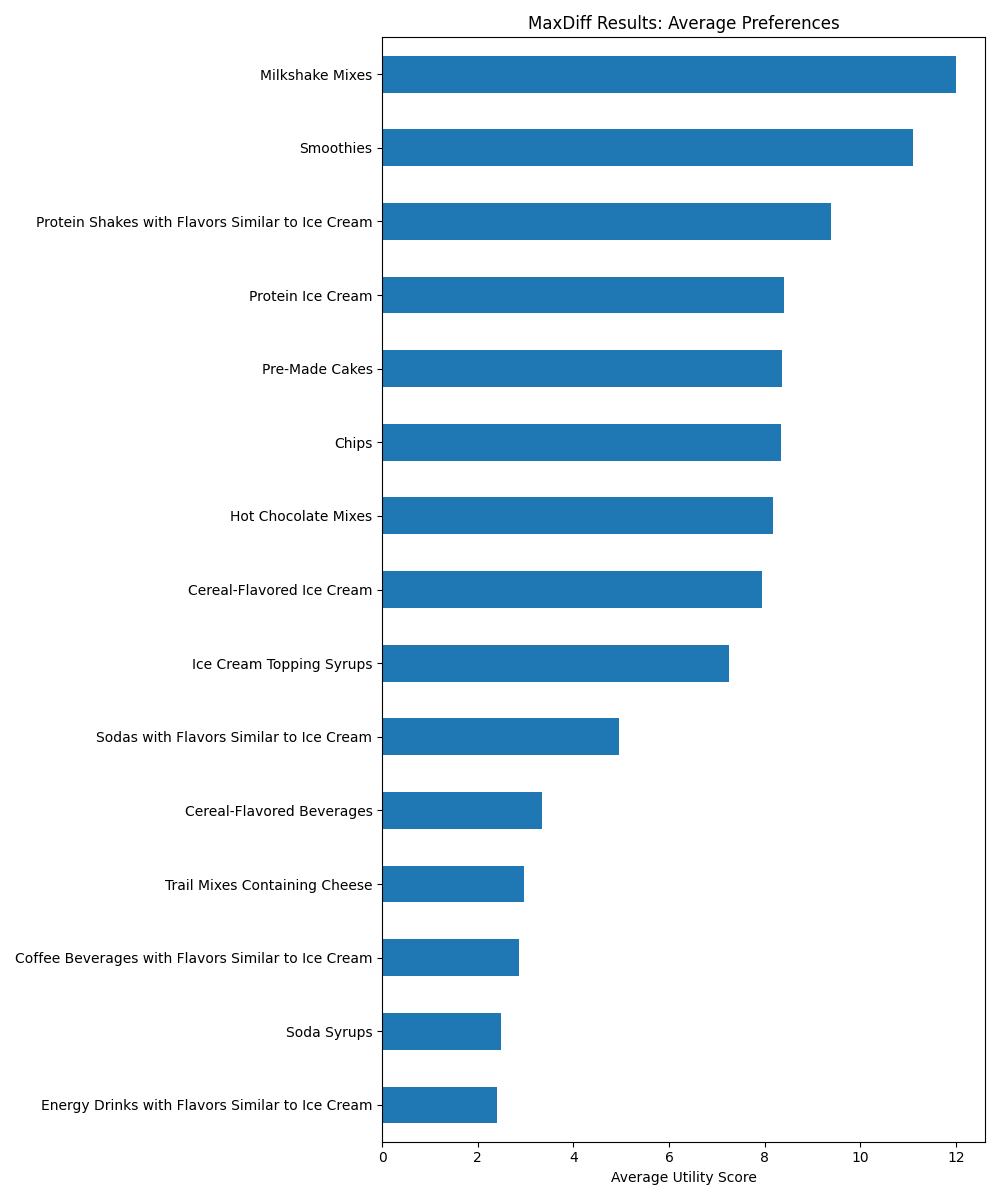
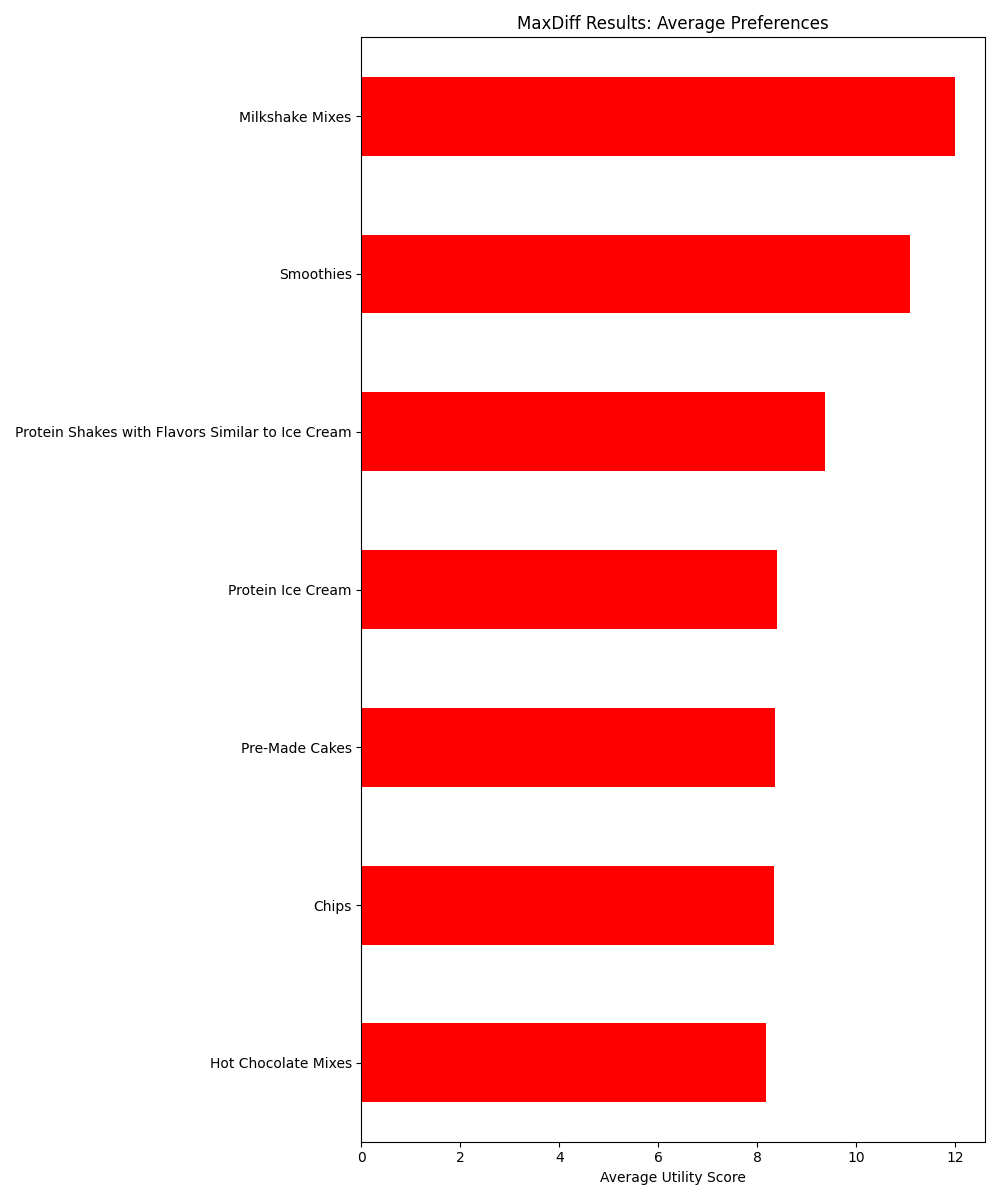
Finished the project

diff --git a/code.py b/code.py
@@ -15,21 +15,41 @@ maxdif = MaxDif.drop(columns=[
     'MaxDiff1_Fit (RLH)',
     'Model fit relative quality'
 ])
-#calculates the mean
-mean = maxdif.mean().sort_values(ascending=True)
-print("Means calculated")
-#Defines the size of the figure
-plt.figure(figsize=(10,12))
-#Tell what type of graph
-mean.plot(kind="barh")
+def bar_graph (color_option, row_count):
+    #calculates the mean
+    mean = maxdif.mean().sort_values(ascending=True)
+    #defining the rows
+    mean = mean.tail(row_count)
+    plt.figure(figsize=(10,12))
+    #Tell what type of graph
+    mean.plot(kind="barh", color = color_option)
 
-#Naming the x label
-plt.xlabel("Average Utility Score")
-#Naming the chart
-plt.title("MaxDiff Results: Average Preferences")
+    #Naming the x label
+    plt.xlabel("Average Utility Score")
+    #Naming the chart
+    plt.title("MaxDiff Results: Average Preferences")
 
-plt.tight_layout()
-#creates the pdf
-plt.savefig("maxdiff_plot.png")
+    plt.tight_layout()
+    #creates the pdf
+    plt.savefig("maxdiff_plot.png")
+Rachael = 1
+while Rachael == 1:
+    while True:
+        row_count = int(input("How many rows do you want to see? "))
+        if row_count == -1:
+            print("Exiting.")
+            break
+        if row_count >= 15:
+            print("Max of 15 rows")
+        color_option = input("What color do you want the graph? Blue, Green, or Red? Type -1 to break ")
+        if color_option == "-1":
+            print("Exiting.")
+            break
+        else:
+            bar_graph(color_option, row_count)
+            print("Plot saved successfully.")
+            satisfaction = input("Are you satisfied? Y/N: ")
+            if satisfaction == "Y":
+                Rachael += 1
+                break
 #lets the user know the graph is created
-print("Plot saved successfully.")
